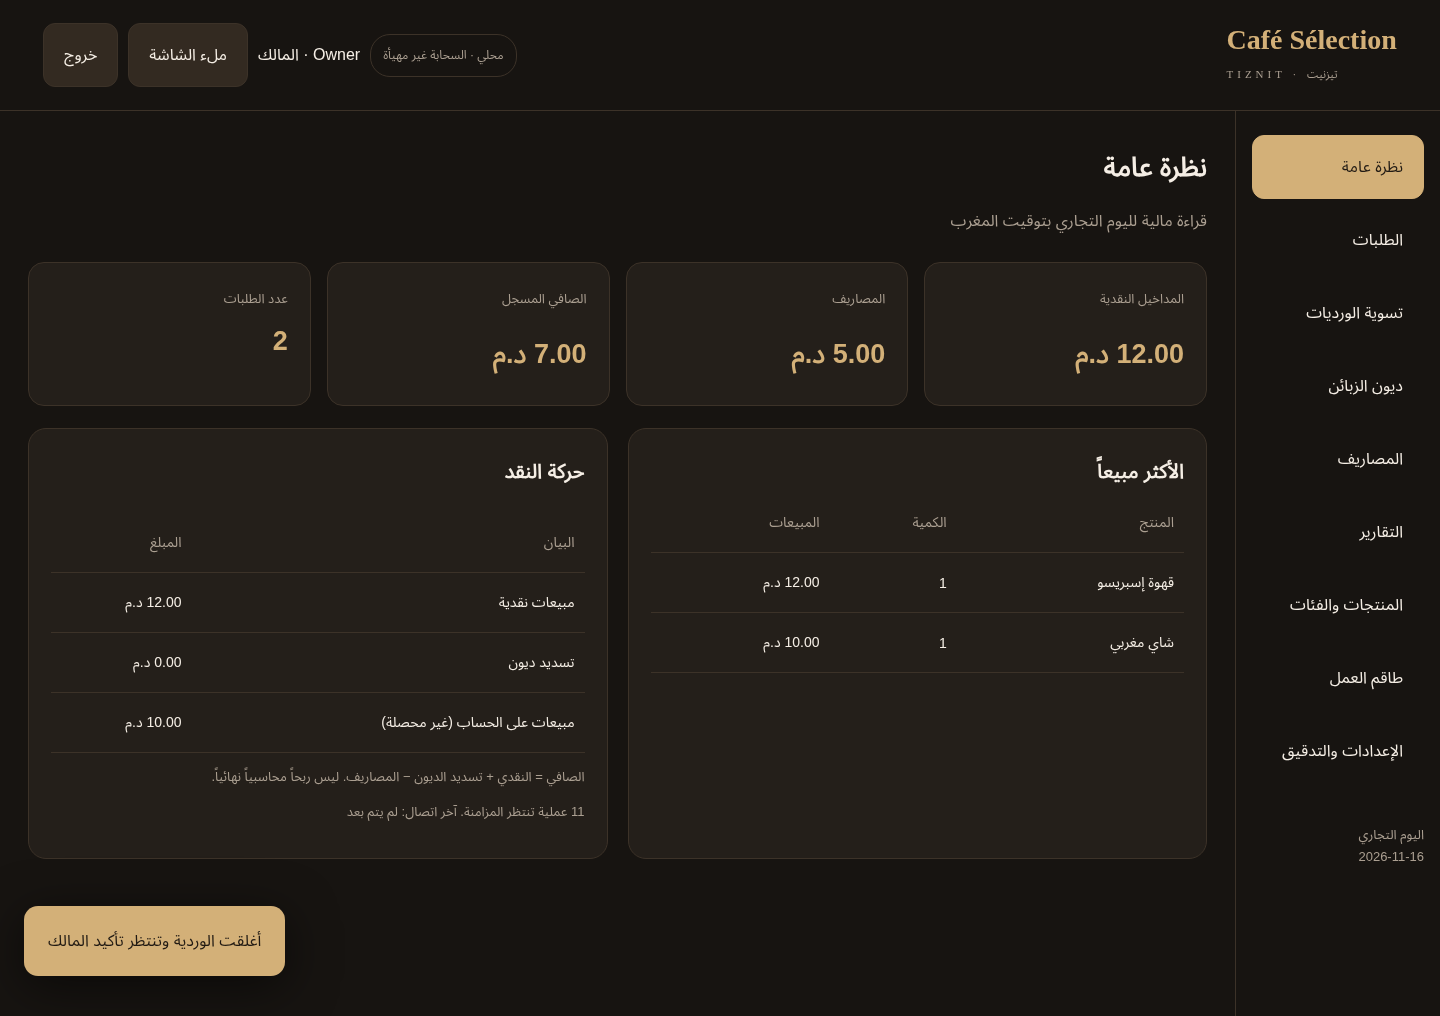
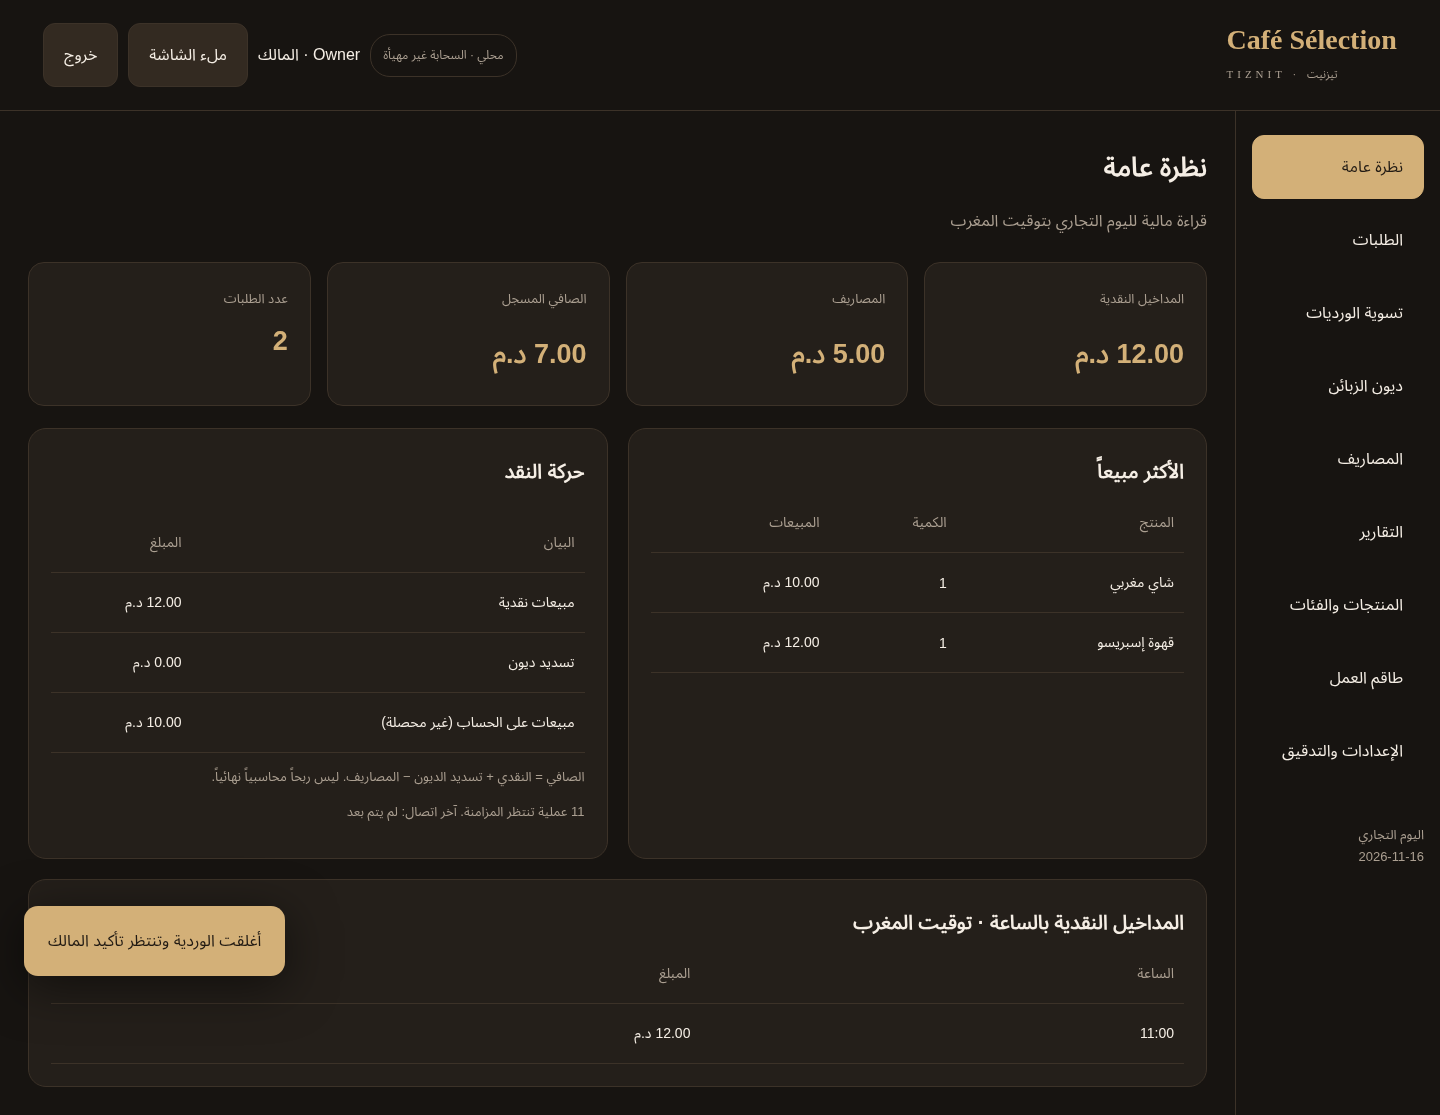
Sync business day changes without waiting for a sale

diff --git a/docs/ARCHITECTURE-V2.md b/docs/ARCHITECTURE-V2.md
@@ -15,7 +15,7 @@
 
 ## المزامنة
 
-كل تعديل مالي أو إداري يضيف حدثاً صغيراً في outbox في المعاملة نفسها، دون نسخ التاريخ المالي كاملاً لكل بيع. الإرسال مرتب بدفعات حتى 100 حدث مع لقطة قراءة واحدة حديثة بلا PIN ولا تجزئته، وإقرار الدفعة يأتي بعد معاملة Supabase. الخادم يمنع تكرار event_id وdevice_id/seq ويمنع لقطة أقدم من الكتابة فوق أحدث. الاختبار يحاكي وصول الحدث وضياع إقراره ثم إعادة الإرسال.
+كل تعديل مالي أو إداري يضيف حدثاً صغيراً في outbox في المعاملة نفسها، دون نسخ التاريخ المالي كاملاً لكل بيع. الإرسال مرتب بدفعات حتى 100 حدث مع لقطة قراءة واحدة حديثة بلا PIN ولا تجزئته، وإقرار الدفعة يأتي بعد معاملة Supabase. تُرسل حالة اليوم عند تشغيل الجهاز وعند تغير اليوم التجاري حتى لو لم تُسجل مبيعات جديدة. الخادم يمنع تكرار event_id وdevice_id/seq ويمنع لقطة أقدم من الكتابة فوق أحدث. الاختبار يحاكي وصول الحدث وضياع إقراره ثم إعادة الإرسال.
 
 هذا تصميم أولي لمقهى وجهاز كاشير واحد، مع لقطة JSON مركزية للقراءة بدلاً من إعادة بناء كل جداول التشغيل في السحابة. واضح وبسيط للربط الأول، لكنه ليس مناسباً لتراكم سنوات من الطلبات دون تقسيم إلى دفعات/جداول سحابية وأرشفة. لا يُدعى دعم أجهزة كاشير متعددة.
 
